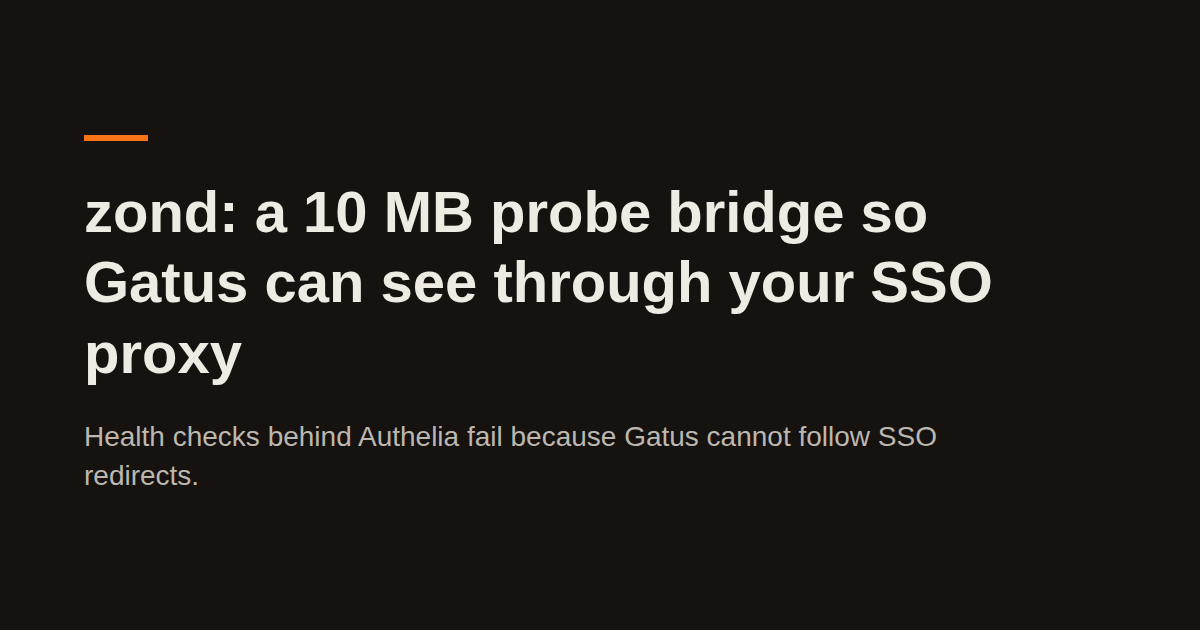
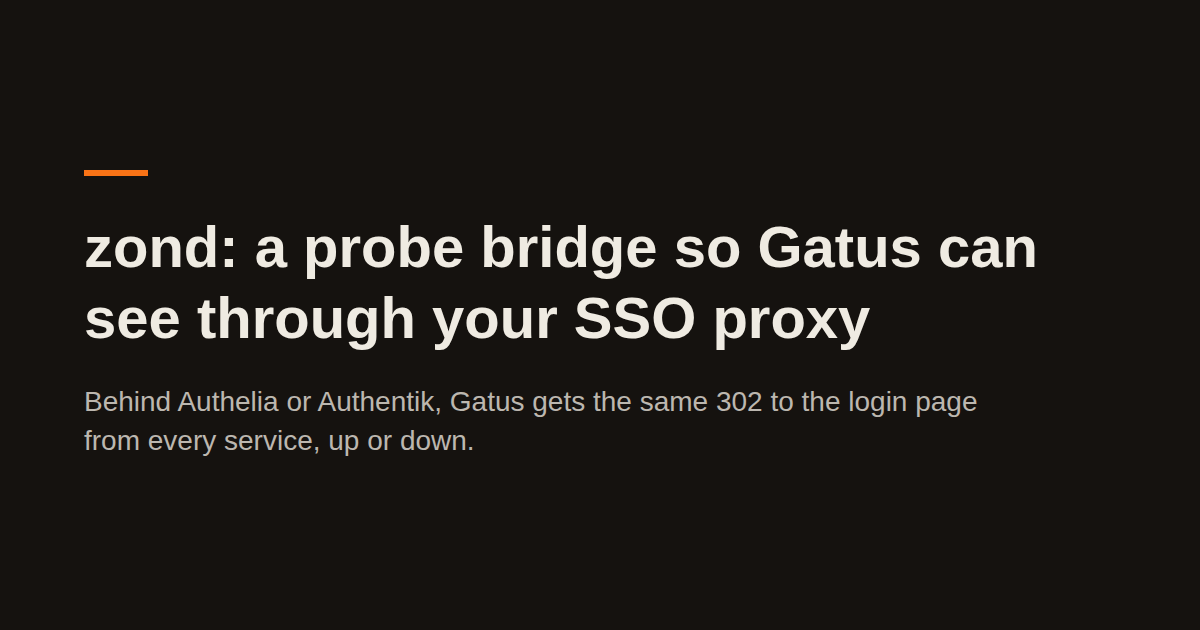
docs(blog): rewrite the zond post (#577)
* docs(blog): rewrite the zond post

* docs(blog): draw the zond health-check diagram

Replaces the unused cover SVG, which repeated the wrong 10 MB and answer claims.

* docs(blog): rewrite the zond post with measured numbers

* docs(blog): name the zond table's first column

* docs(blog): fix the zond README anchor and env rule

---------

Changed region(s): [[0.0617, 0.2714, 0.8633, 0.7841], [0.0617, 0.2111, 0.1233, 0.2413]]

diff --git a/content/blog/zond-sso-probe-bridge.md b/content/blog/zond-sso-probe-bridge.md
@@ -1,57 +1,131 @@
 ---
-title: "zond: a 10 MB probe bridge so Gatus can see through your SSO proxy"
-description: "Health checks behind Authelia fail because Gatus cannot follow SSO redirects. Zond sits beside your services on the Docker network and answers 200 or 503 — no auth bypass, no internal URLs leaked, one config file."
+title: "zond: a probe bridge so Gatus can see through your SSO proxy"
+seoTitle: "zond: Gatus health checks behind an SSO proxy"
+description: "Behind Authelia or Authentik, Gatus gets the same 302 to the login page from every service, up or down. zond runs beside your containers, probes them directly and answers 200 ok or 503 unreachable, with no monitoring login."
 tldr:
-  - "Gatus can't health-check services behind Authelia or Authentik, because it can't follow SSO redirects, and a TCP check misses a service that answers 500."
-  - "zond sits on the same Docker network, takes Gatus's probe on a public URL and checks the service by its Docker name, answering 200 or 503."
-  - "It needs no authentication: it only says whether a service is up, which your status page already shows."
-  - "I rewrote it from Deno to Go after a 180 ms cold start on a Raspberry Pi; the image shrank from about 80 MB to about 10 MB."
+  - "Behind an SSO proxy, Gatus gets the same 302 to the login page from every service, whether the service runs or not."
+  - "zond runs on the same Docker network as your services, sends each one a plain HTTP GET and answers 200 ok or 503 unreachable. No login, no auth bypass."
+  - "Its image is a 3.7 MB download. On my laptop it used about 3 MB of memory idle and stayed under 14 MB through 1,000 requests."
+  - "I rewrote it from Deno to Go in July 2026. The last Deno version, rebuilt for comparison, is a 117 MB image that idles at 19 MB."
+intro: "If your self-hosted services sit behind Authelia or Authentik, your monitor sees a login page instead of your services. This post shows how zond checks them from the inside without a monitoring account, how to set it up, and what it costs in memory and disk."
 publishedAt: "2026-08-26"
-readTime: 6
+updatedAt: "2026-10-30"
+readTime: 7
 coverImage: "/img/blog/zond-sso-probe-bridge/cover.png"
 coverAlt: "The This Is Fine meme: a dog sits in a burning room labelled \"Service behind SSO answers 500\" and \"Gatus: TCP port open\", and says \"This is fine\"."
 coverSize: "580x282"
 topic: "self-hosting"
 relatedTool: "zond"
+catalogSlug: "cto-advisory-retainer"
 ---
 
-Every self-hosted homelab eventually hits the same monitoring problem: you want
-Gatus to tell you that your services are healthy, but the services sit behind
-Authelia or Authentik, and Gatus cannot follow SSO redirects without either
-accepting 302 as "healthy" (false positive) or standing up a service-specific
-monitoring user (operational debt).
+You put Authelia or Authentik in front of your self-hosted services, and now
+nobody gets in without logging in. That includes your monitor.
 
-`zond` is the 10 MB probe bridge I built to solve this. It runs on the same
-Docker network as your services, gets probed by Gatus over the public URL, and
-forwards the probe to the internal service over the Docker DNS name. No auth
-bypass, no exposed internal URLs.
+This post is for people who run their own services and want honest health checks
+for them. I'll show what zond does, the whole setup, why it has no login of its
+own, and what it costs to run, with numbers you can check yourself.
 
-It feeds the Gatus checks behind my status page;
-[how I run production](/infrastructure) shows where it sits.
+## Why your monitor sees only the login page
 
-## Why TCP checks are not enough
+Gatus asks `https://metube.example.com/` and gets a `302` to the login page. It
+gets the same `302` when metube runs, when it crashes on every request, and when
+its container is gone, because the proxy checks the session before it forwards
+anything to metube.
 
-The first instinct is to use a TCP check in Gatus: `tcp://hl-metube:8081`. That
-tells you a port is open. It does not tell you the HTTP layer is healthy. A
-service can listen on its port and still return 500 on every request — and a TCP
-check will report it as up. Green dashboard, broken service: the dog from the
-cover would feel right at home.
+That leaves two bad options:
+
+1. Count the redirect as healthy. Now a dead service shows a green check.
+2. Give the monitor its own account. Now you keep a password alive on every
+   service, for a robot.
+
+A TCP check from inside the network is not the answer either.
+`tcp://hl-metube:8081` tells you a port is open. A service can listen on its
+port and still answer `500` to every request.
 
 ![The Batman slapping Robin meme: Robin says "The port is open, so it's up", and Batman slaps him mid-sentence, saying "It returns 500 on every request"](/img/blog/zond-sso-probe-bridge/batman-tcp.webp "An open port is not a healthy service")
 
-You need a real HTTP probe. The problem is that the service you want to probe is
-behind SSO, and your monitoring tool does not have credentials.
+## What zond does
 
-## What Zond actually does
+zond is a small Go service that runs beside your services, on the same Docker
+network. Your monitor asks it about a service on a public URL that sits outside
+the SSO. zond sends that service a plain HTTP GET by its Docker name and answers
+with a status code. The name is Russian for "probe".
 
+![You reach metube through the SSO proxy and log in. Gatus, in the cloud, asks zond for /health/metube on a public URL outside the SSO. zond runs on the same Docker network as metube, sends it a plain HTTP GET without logging in, and answers 200 ok or 503 unreachable.](/img/blog/zond-sso-probe-bridge/how-zond-works.svg "People go through the login. The health check goes to zond, which asks metube directly.")
+
+Nothing gets around the login. The proxy still guards metube for everyone. zond
+never talks to the proxy: it reaches metube the way metube's neighbours on that
+network do, by its container name, and tells the outside world one word.
+
+This is the rule it applies, from
+[`internal/probe/probe.go`](https://github.com/spy4x/zond/blob/7744aaab8e64f31379bda47626aeaeaee911ecd5/internal/probe/probe.go#L78):
+
+```go
+return Result{Name: name, OK: resp.StatusCode >= 200 && resp.StatusCode < 400}
 ```
-┌──────────┐     ┌──────────┐     ┌─────────────┐
-│  Gatus   │────>│  Zond    │────>│ hl-metube   │
-│ (cloud)  │     │ (home)   │     │ :8081       │
-└──────────┘     └──────────┘     └─────────────┘
+
+A `2xx` or `3xx` answer is up. A `4xx`, a `5xx`, a timeout, a refused connection
+or a failed DNS lookup is down. zond doesn't follow redirects, so a `302` from
+metube to its own `/login` counts as up. That is the same `302` I called useless
+above, with one difference: here metube sent it, so metube is running.
+
+This is all a monitor ever sees. The run is from the
+[README](https://github.com/spy4x/zond/blob/7744aaab8e64f31379bda47626aeaeaee911ecd5/README.md#L42-L61),
+with one service up and one down:
+
+```console
+$ curl -i localhost:8080/health/metube
+HTTP/1.1 200 OK
+Content-Type: text/plain; charset=utf-8
+
+ok
+
+$ curl -i localhost:8080/health/jellyfin
+HTTP/1.1 503 Service Unavailable
+Content-Type: text/plain; charset=utf-8
+
+unreachable
+
+$ curl -i localhost:8080/health
+HTTP/1.1 503 Service Unavailable
+Content-Type: text/plain; charset=utf-8
+
+OK metube
+KO jellyfin
 ```
 
-Three containers, one config file:
+So the answer about one service is `ok` or `unreachable`. `OK` and `KO` appear
+only in the list that `/health` returns, one line per service, and that list
+answers `503` when any service on it is down. `/health` checks every service at
+once, in parallel, so the list takes as long as the slowest service, not the sum
+of all of them.
+
+## The setup: one Compose entry and one file
+
+Add zond to the Compose file that runs your services, so it shares their
+network. Both blocks are from the
+[README](https://github.com/spy4x/zond/blob/7744aaab8e64f31379bda47626aeaeaee911ecd5/README.md#L93-L106):
+
+```yaml
+# compose.yml
+services:
+  zond:
+    image: ghcr.io/spy4x/zond:latest
+    restart: unless-stopped
+    ports: ["8080:8080"]
+    volumes: ["./zond.yml:/app/zond.yml:ro,z"]
+```
+
+```yaml
+# zond.yml
+targets:
+  - name: metube
+    url: http://hl-metube:8081/
+```
+
+A fuller `zond.yml`, from
+[`docs/configuration.md`](https://github.com/spy4x/zond/blob/7744aaab8e64f31379bda47626aeaeaee911ecd5/docs/configuration.md#L22-L34):
 
 ```yaml
 # zond.yml
@@ -61,72 +135,117 @@ targets:
     url: http://hl-metube:8081/
   - name: ollama
     url: http://hl-ollama:11434/api/tags
-    timeout: 10000
+    timeout: 10000 # ms, default 5000
   - name: grafana
     url: http://hl-grafana:3000/api/health
     timeout: 3000
 ```
 
-One line in Gatus:
+1. `port` is where zond listens, 8080 by default. The `ZOND_PORT` environment
+   variable overrides it.
+2. `name` is the last part of the URL: `/health/metube`. zond refuses to start
+   when two targets share a name.
+3. `url` is the address zond probes, usually the container's name on the Docker
+   network.
+4. `timeout` is how long zond waits for that service, in milliseconds. The
+   default is 5000.
+
+No file? One environment variable does the same, and it wins over a file if both
+are set, with the default timeout for every service:
+`ZOND_TARGETS="metube=http://hl-metube:8081/,ollama=http://hl-ollama:11434/api/tags"`.
+
+Then publish zond through your reverse proxy, outside the SSO, and point Gatus
+at it:
 
 ```yaml
+# Gatus
 - name: Metube
   url: "https://zond.example.com/health/metube"
   conditions:
     - "[STATUS] == 200"
 ```
 
-That is the whole setup. Yes, really. Zond returns only `ok\n` or
-`unreachable\n`. No data leaks. No session to steal. No action to perform on the
-URL.
-
 ![The Tuxedo Winnie the Pooh meme: plain Pooh looks unimpressed next to "Accepting 302 as healthy", and Pooh in a tuxedo looks pleased next to "Asking zond: 200 or 503"](/img/blog/zond-sso-probe-bridge/pooh-probe.webp "Health checks, but make them fancy")
 
-## What I learned rewriting it from Deno to Go
+## Why zond has no login
 
-The first version was Deno + TypeScript on this homelab. It worked. The image
-was ~80 MB stripped. The single binary was nice. Then I tried to ship it on a
-friend's lower-end box (Raspberry Pi 4, 1 GB RAM) and the Deno cold start was
-180ms — fine for human traffic, ugly for a probe endpoint that fires every 30s.
+A login on zond would bring back the exact problem it solves: a credential for
+the monitor to keep alive. What can an outsider learn from it instead?
 
-The Go rewrite:
+- Whether each service is up. Your status page says that already.
+- The names you gave your targets, because `/health` lists them. Name them the
+  way you'd name them on a public status page.
 
-- ~10 MB distroless image
-- 8 MB cold start
-- stdlib HTTP server with one external dep (`go.yaml.in/yaml/v3`)
-- Single static binary, no runtime to install
-
-![The Buff Doge vs Cheems meme: a muscular doge labelled "Go: ~10 MB distroless image" stands next to a small, crying Cheems labelled "Deno: ~80 MB and a 180 ms cold start"](/img/blog/zond-sso-probe-bridge/doge-go.webp "Same probe, fewer megabytes")
-
-The rewrite took two evenings. The Deno version had grown some habits I had to
-break: dynamic `Deno.serve`, structured logging, async-ergonomic fan-out. The Go
-version has none of that and is easier to reason about.
-
-I am increasingly convinced that monitoring endpoints belong in Go. The perf
-ceiling is irrelevant — the predictability matters. Zond will boot in 8 ms on
-the same Raspberry Pi in five years. The Deno binary might not. Sorry, Deno:
-it's not you, it's my friend's Raspberry Pi.
-
-## Why no authentication
-
-Zond returns `ok` or `ko`. There is nothing to protect. No session, no data, no
-action. Adding auth would reintroduce the exact problem Zond solves: now you
-have to manage credentials for a monitoring endpoint, and you have an attack
-surface that did not exist before.
+That is all. zond never returns an internal URL, a response body or a header
+from the service. It is not an open proxy either: it looks the name up in its
+own config
+([`internal/server/server.go`](https://github.com/spy4x/zond/blob/7744aaab8e64f31379bda47626aeaeaee911ecd5/internal/server/server.go#L69)),
+answers `404` for a name it doesn't know, and only ever sends a GET to the URLs
+you wrote down.
 
 ![The Roll Safe meme: a man taps his temple, captioned "Can't steal a session if there is no session"](/img/blog/zond-sso-probe-bridge/roll-safe-auth.webp "The most secure session is no session")
 
-If you really need to hide the existence of an internal service, proxy Zond
-behind your SSO — but the endpoint itself is safe to expose. The worst case is
-an attacker learns "metube is up" or "metube is down", which is exactly what
-your uptime page already says. Not exactly a heist.
+## Where it runs
+
+zond runs on my home server. It feeds Gatus, and [oko](/tools/oko), my one-page
+dashboard, reads Gatus to draw my status page. The monitoring lane on
+[how I run production](/infrastructure) shows that chain: zond, Gatus, oko, the
+dashboard.
+
+## What it costs to run
+
+These numbers are not from my server. They come from a laptop, in a run you can
+repeat on any machine.
+
+On 30 October 2026 I pulled the published image (`ghcr.io/spy4x/zond:latest`,
+digest `sha256:1ac711d5…`, built 20 August 2026) and ran it with Podman beside
+two test containers: a BusyBox web server as metube, and a container with
+nothing listening as grafana, so every check had one service up and one down.
+Then I sent 1,000 requests to `/health`, ten at a time. Each request probes both
+services, so that is 2,000 probes. Memory comes from `podman stats` and the
+container's cgroup `memory.peak`, three runs each.
+
+For comparison I rebuilt the last Deno version (the
+[`v1.0.0` tag](https://github.com/spy4x/zond/tree/574fe216d6769cccfa953c6212da722435e294fe))
+from its own Dockerfile, which runs the code with `deno run` on the Deno Alpine
+image, and measured it the same way.
+
+| Measure                      | Go, published image | Deno, last version rebuilt |
+| ---------------------------- | ------------------- | -------------------------- |
+| Download                     | 3.7 MB              | about 49 MB                |
+| On disk                      | 10.1 MB             | 117.2 MB                   |
+| Memory, idle                 | 2.8 to 2.9 MB       | 19.0 to 19.2 MB            |
+| Memory after 1,000 `/health` | 9.4 to 11.2 MB      | 46.8 to 48.0 MB            |
+| Peak memory                  | 12.7 to 13.1 MB     | 49.7 to 50.1 MB            |
+
+Docker reports the same Go image as 9.1 MB on disk; the table uses Podman's
+figures for both columns. The sample Compose file in
+[`docs/self-hosting.md`](https://github.com/spy4x/zond/blob/7744aaab8e64f31379bda47626aeaeaee911ecd5/docs/self-hosting.md#L42-L45)
+caps zond at `32M` of memory, and in these runs it never needed half of that.
+
+## Why I rewrote it in Go
+
+The first version was Deno and TypeScript. I rewrote it in Go in
+[PR #1](https://github.com/spy4x/zond/pull/1), merged on 14 July 2026, and kept
+the API and the config format as they were.
+
+The PR's reason was Go's standard library, which covers everything zond does:
+routing by method and path, structured logs, parallel probes, timeouts and a
+clean shutdown. The only dependency left is the YAML parser. The result is one
+static binary in a distroless image that runs as a non-root user, with no
+runtime inside. The table above shows what that changes for a service that sits
+idle most of the day and answers one word.
 
 ## Try it
 
-Source: [github.com/spy4x/zond](https://github.com/spy4x/zond). The Docker image
-is at `ghcr.io/spy4x/zond:latest`. The README has a five-minute setup with
-Gatus.
+The source is at [github.com/spy4x/zond](https://github.com/spy4x/zond), and the
+[tool page](/tools/zond) has a one-minute demo. The published image is
+`ghcr.io/spy4x/zond:latest`, built for `linux/amd64`. On another architecture,
+`docker build .` makes your own from the same Dockerfile.
 
-If you want this kind of monitoring set up and watched for your product, that is
-part of [Ongoing](https://antonshubin.com/catalog/cto-advisory-retainer): server
-health and performance monitoring, and triage for production incidents.
+Have a service behind your SSO that your monitor can't see? Add zond to its
+Compose file, ask it `/health/<name>`, and see whether you get `ok`.
+
+If you'd rather have someone set up monitoring like this for your product and
+keep an eye on it, that is part of [Ongoing](/catalog/cto-advisory-retainer):
+monitoring, backups and security patches after launch.
